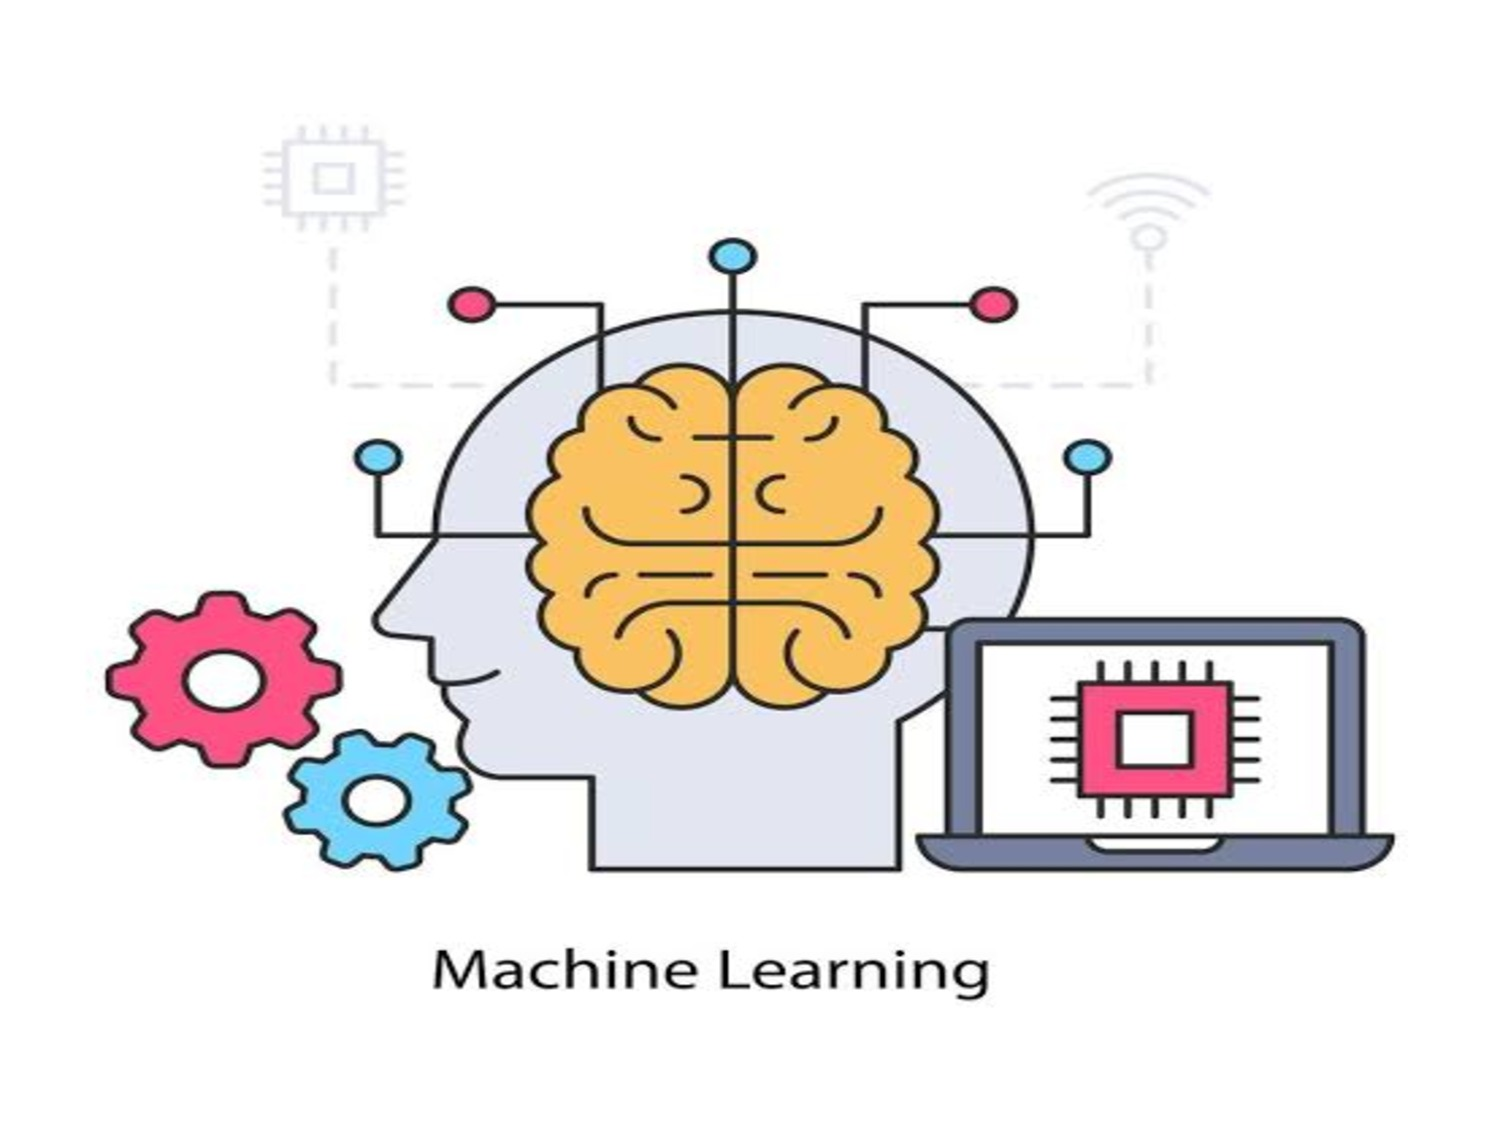
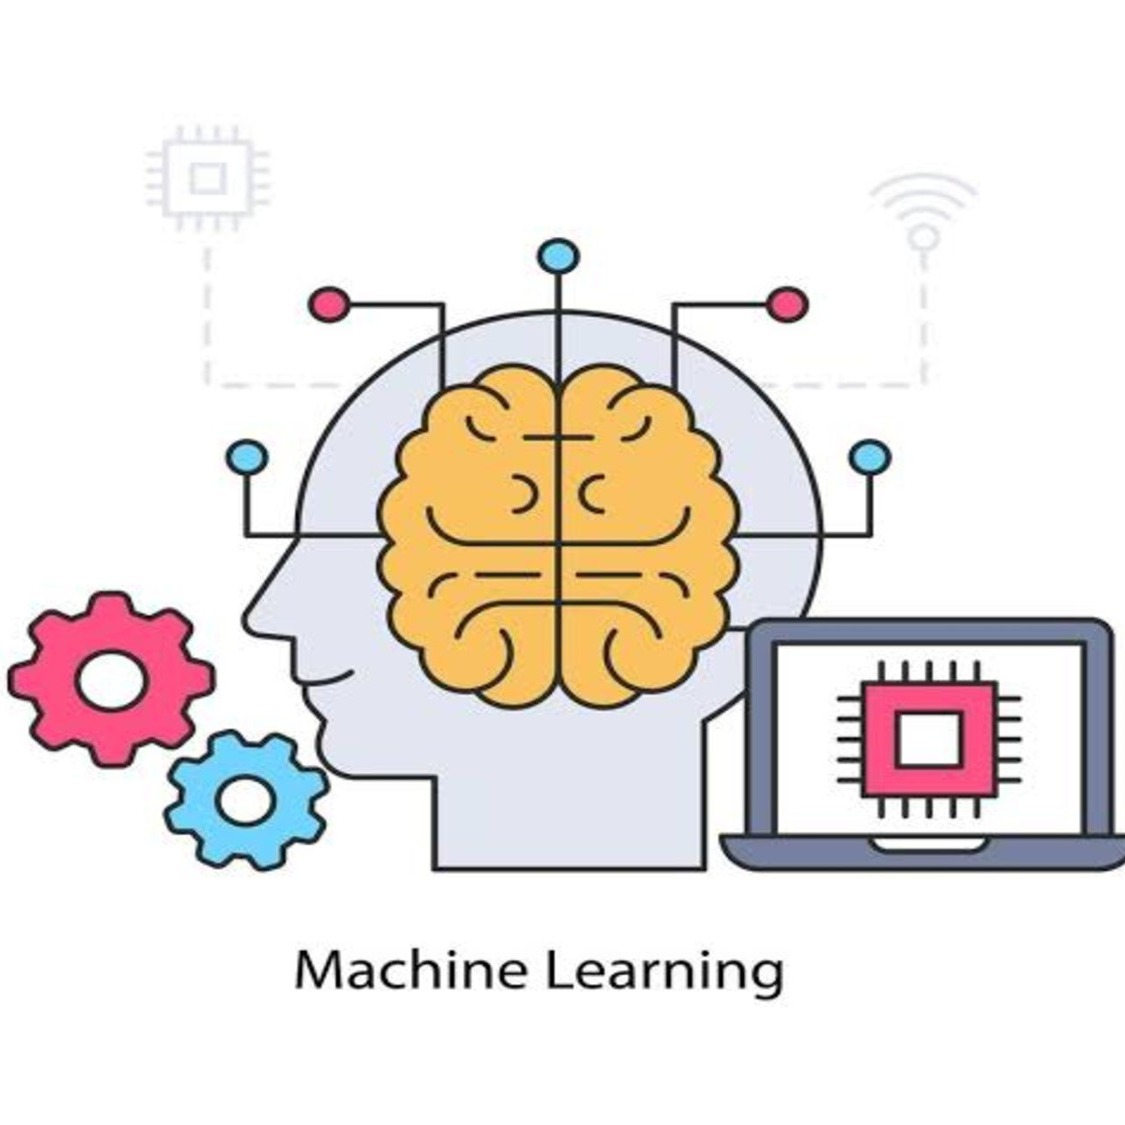
Bug fixing in images of Events Page

diff --git a/style-guide/page-component/TechnoEvents/index.tsx b/style-guide/page-component/TechnoEvents/index.tsx
@@ -3,14 +3,15 @@ import Styles from "./technoEvents.module.css";
 import TechnoMap from "./TechnoMap";
 import WorkingMan from "../../components/lottie-player/working-man";
 const TechnoEvents = () => {
-  const cars = [
+  const cards = [
     {
       name: "SPEAKER SESSIONS",
       cont1:
         "The Computer Science Society organizes numerous speaker sessions throughout the course of the year featuring techies from across the country.",
       cont2:
         "Having proved their mettle in varied advancing domains in the realm of computational sciences, the words of guidance from the speakers target to ignite within the students a sense of zeal and initiative as they strive forward in their respective fields. The PR wing of the CSS organizes these sessions.",
-      img: "/./images/events/Speaker-session.jpeg",
+      img: "./images/events/Speaker-session.jpeg",
+      id: "1",
     },
     {
       name: "ENIGMA",
@@ -18,7 +19,9 @@ const TechnoEvents = () => {
         "Enigma is a weekly coding contest organized by the CP wing aimed to make the students comfortable with the level and format of such questions and to provide them with a competitive edge in their endeavors.",
       cont2:
         "Having established a trail of success stories with NIT Silchar CSE students and alumni being placed in top companies around the globe, the CSS of NIT Silchar understands the importance of competitive programming and its role in cracking international hackathons and MNCs.",
-      img: "/./images/events/Enigma.png",
+      img: "./images/events/Enigma.png",
+      id: "2",
+
     },
     {
       name: "C CLASSES",
@@ -26,16 +29,20 @@ const TechnoEvents = () => {
         " Every year CSS organizes introductory to advanced-level classes in C programming for freshers which are taken by the CSE sophomores themselves.",
       cont2:
         " The aim of the programme is to provide the students with a mentor who has followed the same path as themselves and can acknowledge and resolve the problems faced by the freshers as they gear up to pursue their careers in tech.",
-      img: "/./images/events/C-classes.png",
+      img: "./images/events/C-classes.png",
+      id: "3",
+
     },
 
     {
       name: "DEVELOPMENT WORKSHOPS",
       cont1:
-        " CSS organizes numerous development workshops throughout the course of the year which are conducted by the DEV Wing. The objective is to help the students navigate through the challenging and mind-numbing concepts",
+        " CSS organizes numerous development workshops throughout the course of the year which are conducted by the DEV Wing to help the students navigate through the challenging concepts ",
       cont2:
-        "of fields like app dev, web dev, web3, etc.and to provide them with a competitive edge in the corporate world.",
-      img: "/./images/events/C-classes.png",
+        " of fields like app dev, web dev, web3, etc.and to provide them with a competitive edge in the corporate world.",
+      img: "./images/events/C-classes.png",
+      id: "4",
+
     },
     {
       name: "ABACUS",
@@ -43,38 +50,46 @@ const TechnoEvents = () => {
         "Abacus is a one-week-long event organized by the CSS. The event garners participation from all CSE batches in the institute and comprises a plethora of exciting events like CSS wars, CSS hacks and many more.",
       cont2:
         " The event aims to provide a stress free week of fun for students to interact with each other, compete with their mates and win exciting prizes.",
-      img: "/./images/events/Abacus-tech.jpeg",
+      img: "./images/events/Abacus-tech.jpeg",
+      id: "5",
+
     },
     {
       name: "ML SESSIONS",
       cont1:
-        "Machine Learning is one of the fastest-growing domains in computer science with several applications in data analytics and leverage that to improve the extent and quality of performance in fields like A.I. ",
+        "Machine Learning is one of the fastest-growing domains in computer science with several applications in data analytics and leverage that to improve the extent of performance",
       cont2:
-        "The ML wing of CSS organizes ML sessions on a regular basis to mentor students and help them advance in the field and pursue a career in it",
-      img: "/./images/events/ML-session.jpg",
+        " in fields like A.I.The ML wing of CSS organizes ML sessions on a regular basis to mentor students and help them advance in the field and pursue a career in it",
+      img: "./images/events/ML-session.jpg",
+      id: "6",
+
     },
 
     {
       name: "CSS HACKS",
       cont1:
-        "Conducted under the banner of Abacus by the dev wing, CSS Hacks as the name suggests is an annual hackathon. The hackathon caters to the participants with a series of intriguing and complicated problems",
-      cont2: "as they compete with their peers for exciting prizes.",
-      img: "/./images/events/CSS-hack.png",
+        "Conducted under the banner of Abacus by the DEV wing, CSS Hacks as the name suggests is an annual hackathon. ",
+      cont2: "The hackathon caters to the participants with a series of intriguing and complicated problems as they compete with their peers for exciting prizes.",
+      img: "./images/events/CSS-hack.png",
+      id: "7",
+
     },
 
     {
       name: "CSS WARS",
       cont1:
-        "Web design is one of the most sought out fields in computer science. CSS wars is conducted under the banner of Abacus by the Dev wing and is an annual web development competition aimed at testing the prowess of the participants",
-      cont2: " in HTML, CSS and Javascript.",
-      img: "/./images/events/CSS-war.jpeg",
+        "CSS wars is conducted under the banner of Abacus by the Dev wing and is an annual web development competition aimed at testing the prowess of the participants in HTML, CSS and Javascript.",
+      cont2: " ",
+      img: "./images/events/CSS-war.jpeg",
+      id: "8",
+
     },
   ];
   return (
     <>
       <section className={Styles.techno}>
-        {cars.map((event) => (
-          <TechnoMap events={event} key={null} />
+        {cards.map((event) => (
+          <TechnoMap events={event} key={event.id} />
         ))}
 
         <span className={Styles.mobile_hide}>

diff --git a/style-guide/page-component/TechnoEvents/TechnoMap.jsx b/style-guide/page-component/TechnoEvents/TechnoMap.jsx
@@ -1,13 +1,14 @@
 import React from "react";
 import Styles from "./technoEvents.module.css";
 import Image from "next/image";
-const TechnoMap = ({ events }) => {
+const TechnoMap = ({ events, key }) => {
   return (
     <div className={`${Styles.card_blur}`}>
       <div className={` ${Styles.mobile_hide}`}>
         <div className={Styles.h_before}>
           <div className={Styles.img_1_c}>
-            <Image src={events.img} alt="event" layout="fill" />
+            {/* <Image src={events.img} alt="event" /> */}
+            <img src={events.img} alt="Image" />
           </div>
           <p className={Styles.d_title}>{events.name}</p>
         </div>
